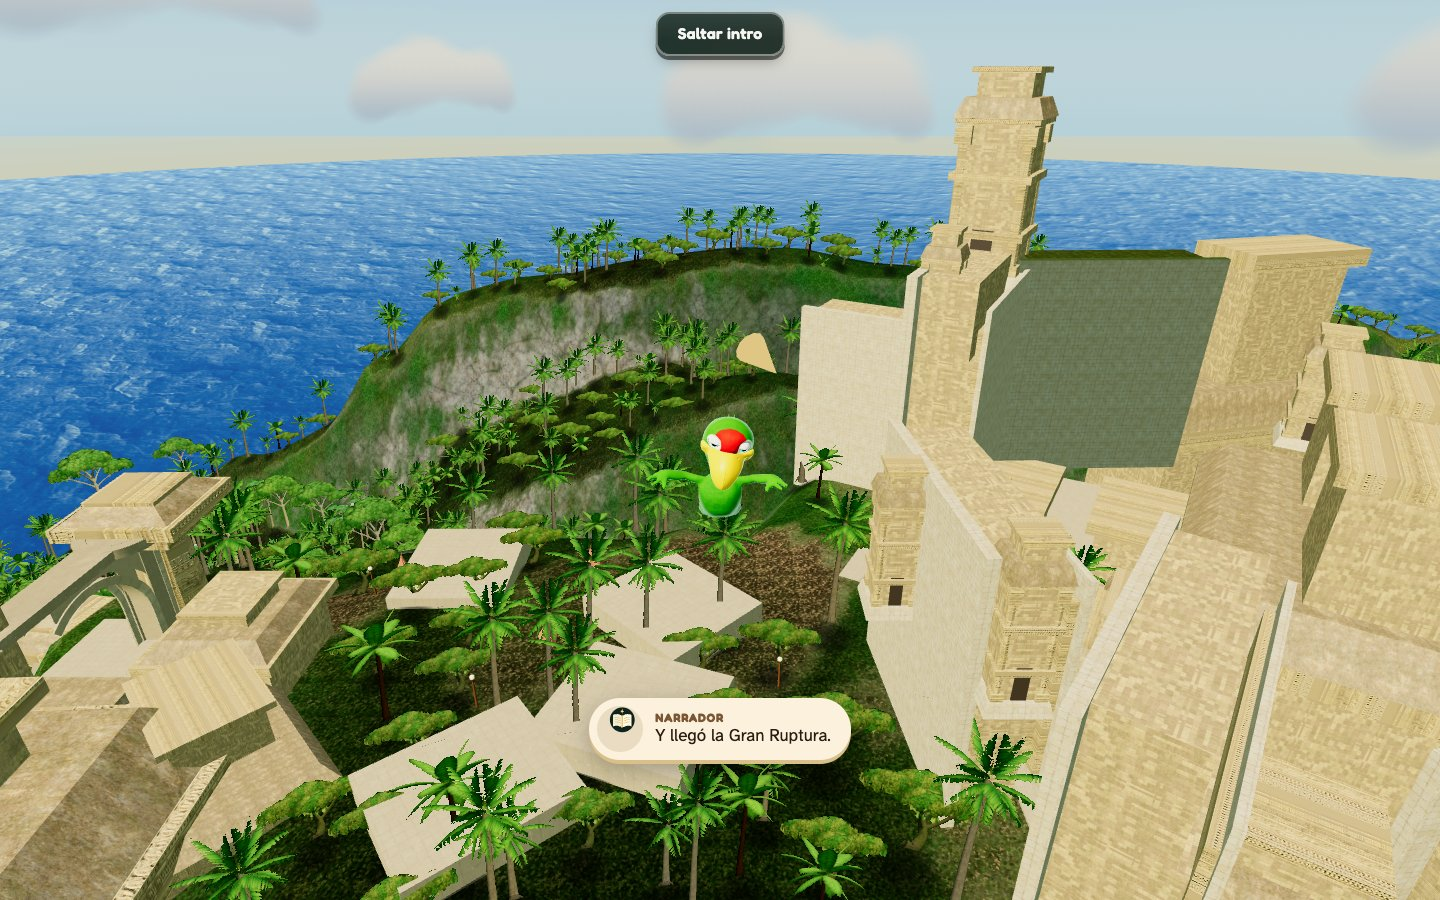
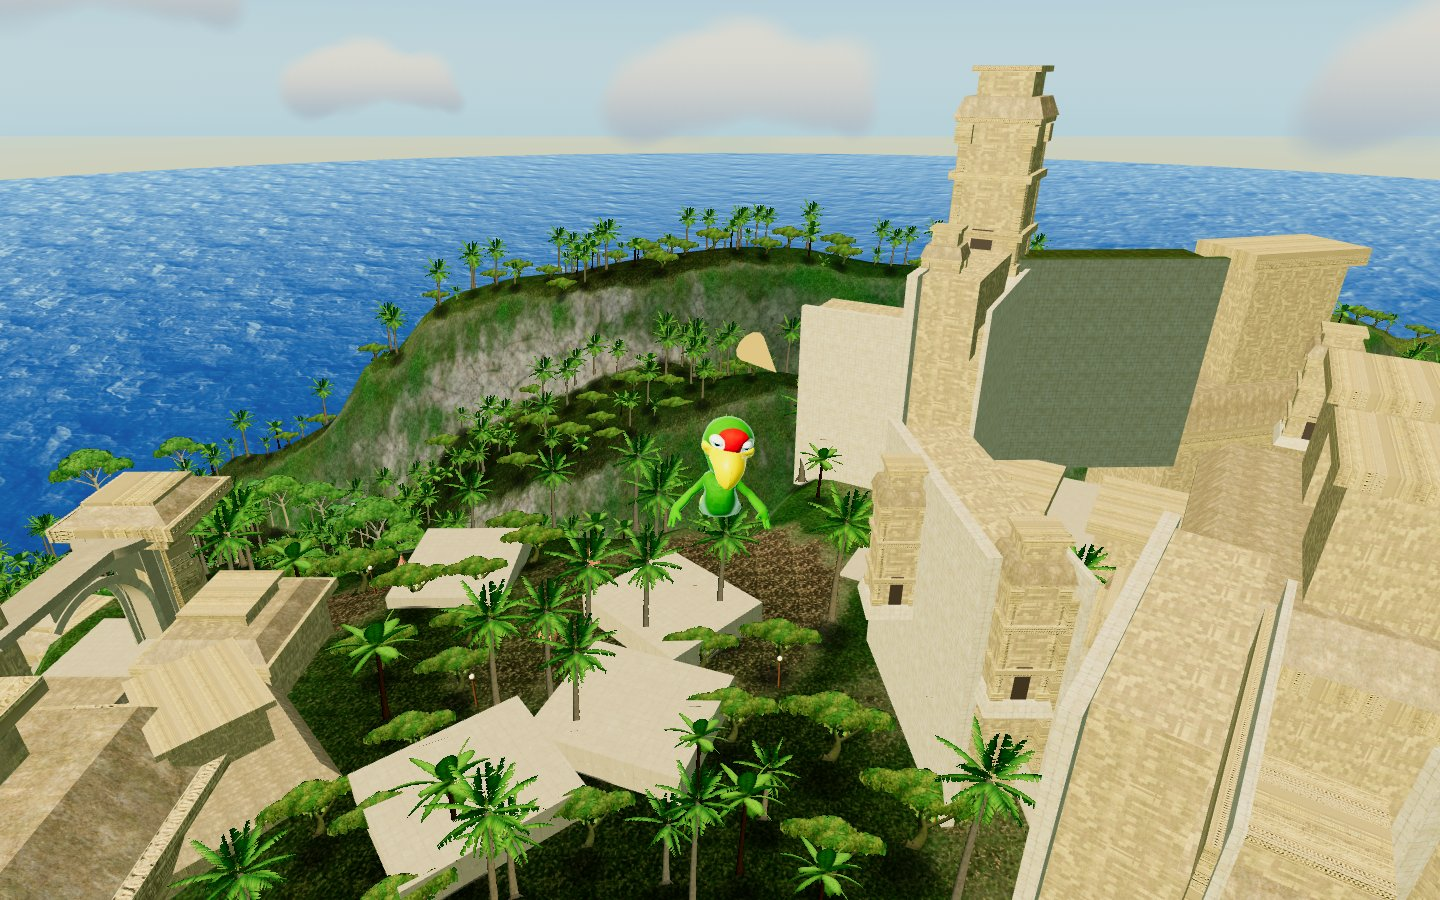
BM136: 4 capturas «bajo» de la Ciudad de los 36 rehechas sin intro (el script salta la intro de verdad; --calidades)

diff --git a/tools/build/bm134_capturas.py b/tools/build/bm134_capturas.py
@@ -34,6 +34,13 @@ PON_JS = r'''(async () => {
   G.camara.place(true); await cuadros(120);
   for (let i = 0; i < 40; i++) { const b = [...document.querySelectorAll('button')].find(b => /Saltar intro/i.test(b.textContent) && b.offsetParent); if (!b) break; b.click(); await new Promise(r => setTimeout(r, 500)); }
   const f2 = document.getElementById('c1-fade'); if (f2) f2.remove(); await cuadros(30);
+  // BM136: la intro se vuelve a abrir al cargar el mundo; se salta de verdad (cancelar el diálogo libre y la apertura; sin teclas, que activarían el juego) y se quita todo lo que quede
+  for (let i = 0; i < 6; i++) {
+    try { G.dialogo.cancelarLibre(); } catch (e) {}
+    if (G.c && G.c.apertura && G.c.apertura.fin) G.c.apertura.fin();
+    ['c1-fade', 'c1-ruptura', 'c1-saltar'].forEach(id => { const e = document.getElementById(id); if (e) e.remove(); });
+    await cuadros(20);
+  }
   return 'ok ' + Math.round(x) + ',' + Math.round(z) + ' ' + (c ? 'col' : 'fijo');
 })()'''
 
@@ -42,6 +49,7 @@ def main():
     ap = argparse.ArgumentParser()
     ap.add_argument('--raiz', required=True)
     ap.add_argument('--vistas', default='plaza,aire')
+    ap.add_argument('--calidades', default='alto,bajo')
     a = ap.parse_args()
     P = json.load(open(os.path.join(AQUI, 'config.json')))['pruebas']
     srv = avtest.Servidor(os.path.abspath(a.raiz), 0, None)
@@ -49,7 +57,7 @@ def main():
     ws = avtest.WS('ws://127.0.0.1:%d%s' % (chrome.puerto, chrome.ws_path))
     try:
         cdp = avtest.CDP(ws, lambda m: None)
-        for cal in ('alto', 'bajo'):
+        for cal in a.calidades.split(','):
             for vista in a.vistas.split(','):
                 for tarde in (False, True):
                     tid = cdp.call('Target.createTarget', {'url': 'about:blank'})['targetId']

diff --git a/docs/equipo/TAREAS_API.md b/docs/equipo/TAREAS_API.md
@@ -947,7 +947,7 @@ Kelvin: «de lejos se ve de una forma y cuando llego se ve de otra», «las estr
 | BM130 | hecha | (este commit) | QA visual con GPU en `docs/img/qa_2nov_tarde/` (HALLAZGOS.md y guiones en `pasos/`): posarse en rama y nido, patas en crucero (atrás y lado) y en ladera de 30°, «Descubriste», Diario caps. 2–6, medalla del cap. 6 y retrato de Nayara, bien. Hallazgo de contenido: cap. 3 «Carta de la bahía (undefined)» (falta `pista`, en PEDIDOS para Apoyo). Gráfico para Kimi: icono de la medalla (hoy «?»). Sin cambios de código, baterías no repetidas. |
 | BM131 | hecha | (este commit) | Mac (Chrome con emulación táctil de iPad, tope 6 $): reproducir el «zoom en bucle» que vio Kelvin en el iPad, cap. 5 con mapa real, junto a los acantilados y edificios del tepuy. Al tocar, la cámara se acerca y se aleja sola. Medir la distancia de la cámara cuadro a cuadro durante 10 s, quieta y tocando el joystick, y anotar en `BUGS.md` qué la provoca: la colisión con la pared, el dolly, el FOV o el pellizco. **Solo diagnóstico:** el arreglo lo hace la nube en `camara.js`. Resultado: bucle no reproducido; la distancia solo cambia al barrer el yaw contra un muro (8,08→6,06 m, `muroEnMedio`) y por el dolly de aterrizaje con saltos seguidos (7,56–8,08 m); FOV fijo; sin pellizco. Detalle en `BUGS.md` (BM131). |
 | BM132 | hecha | (este commit) | Mac: rojos de BM129 bisecados (ver `BUGS.md` «BM132»). `movementTest` ladera y `guineoTest` 12/14: los trae 842452c («Conservar las alturas jugables», mapa de alturas nuevo; verdes en 6cdc905), no la animación (b57de87/22e0ad1 ya fallaban igual en su padre). `bohiosTest` rio_oeste: 842452c. `mazeTest` 50/51: intermitente (51/51 en el mismo HEAD), sin culpable. Ninguno es de una línea: solo diagnóstico, sin cambios de código. |
-| BM136 | libre · Mac (GPU) | — | **Repetir las 4 capturas «bajo» de A9** (`docs/img/bm134_ciudad_{plaza,aire}_{dia,tarde}_bajo.jpg`): 3 salieron con la intro encima y `aire_tarde_bajo` negra. Saltar la intro antes de capturar, mismo encuadre que las de «alto». Tope 2 $. |
+| BM136 | hecha · (este commit) · 5-nov: 4 capturas «bajo» rehechas sin intro, aire_tarde ya no sale negra (el script salta la intro con cancelarLibre + apertura.fin; ~0,3 $) · NO repetir · | **Repetir las 4 capturas «bajo» de A9** (`docs/img/bm134_ciudad_{plaza,aire}_{dia,tarde}_bajo.jpg`): 3 salieron con la intro encima y `aire_tarde_bajo` negra. Saltar la intro antes de capturar, mismo encuadre que las de «alto». Tope 2 $. |
 | BM137 | libre · Mac (Blender) | — | **Templo del tepuy en el iPad:** texturas estiradas y bloques planos (`docs/img/kelvin_ipad_5nov/ipad1.jpg`). Kimi 1 ya arregló los discos flotantes y el sol (KIMI-060, 10465ae9); falta el modelo: revisar UV y textura del ligero/_hd de ese templo y corregir sin subir memoria; capturas antes/después; baterías en verde. Tope 6 $. |
 | BM138 | hecha · puente_roto.glb listo (sin conectar a reparar.js; ver nota al final de la fila) | (este commit) | **Puente colgante roto de verdad para la V18.1:** el frente B hoy oculta tablas del puente existente (`src/game/v18/reparar.js`). Hacer en Blender, a partir del modelo del puente que ya está en el mapa, una variante «rota» ligera (tablas que faltan o cuelgan, cuerda caída) que el juego muestre en estado `roto`, y dejarla lista para que `reparar.js` la use (avisa a la coordinadora en tu fila con la ruta). Sin modelos nuevos de cero. Tope 6 $. **Resultado (5-nov):** `assets/models/mapa/puente_roto.glb` (+ `puente_roto_glb.js`, clave `AV_MAPA_B64.puente_roto`), 2314 caras frente a 2604 del original, mismos materiales y encuadre que `puente.glb`: ~90 % de tablones del centro quitados, varios colgando de un borde, cable partido y cuerda caída en un lado. Generador: `tools/build/bm138_puente_roto.py`; capturas `docs/img/bm138_puente_{antes,roto}.png`. Para la coordinadora: `reparar.js` aún oculta triángulos del `puente.glb`; para usarlo, cargar `puente_roto` como malla `estructura:puente` en estado `roto` (mismo origen y orientación). |
 | BM139 | hecha · diagnóstico, los 8 siguen apagados | (este commit) | **Los _hd pendientes de BM134** («derechos pendientes, apagados»): terminar los que falten y medir FPS/memoria en móvil antes de encender ninguno; si no aguantan en «bajo», quedan apagados. Tope 6 $. **Resultado (5-nov):** medido con `edificios_hd_voltear.py` (sin --escribir) el error de vecino más cercano del `_hd` frente al ligero, ahora → girado: corral 0,90→0,31 m · campamento_a 0,76→0,17 · monumento_b 2,52→0,95 · monumento_d 1,84→0,36 · monumento_e 1,66→0,52 · monumento_g 2,70→0,89 · muro_roca 0,65→0,59 · tienda_pequena 0,52→0,15. Ninguno llega al umbral de 0,15 m del script (tienda_pequena y campamento_a rozan); el giro solo no basta (cuerdas/colisión ligera distinta, y monumento_b/d tienen ligero rehecho en BM134). Además pesan 1,2–12 MB y 34–322 k triángulos (kit.js), inviable en «bajo»/móvil sin decimar, y desde la Mac no se puede medir FPS/memoria en teléfono. Decisión: no se reexporta ni se enciende ninguno; `hd:false` intacto. Siguiente paso, si se quiere: decimar a ≤30 k + medir en iPhone (Kimi con GPU real). |
